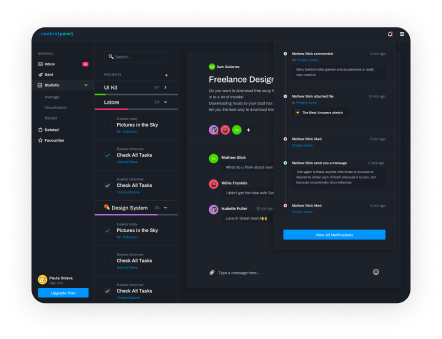
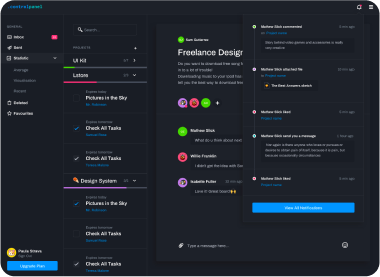
fixed picture

diff --git a/styles/index.css b/styles/index.css
@@ -349,15 +349,12 @@
 
 .tab1__img{
 	margin-top: 57px;
-	width: 405.13px;
-	height: 226.52px;
+
 	padding: 0px 35.44px;
 }
 
 .tab2__img{
 	margin-top: 30px;
-	width: 379px;
-	height: 276px;
 	padding: 0px 48.5px;
 }
 
